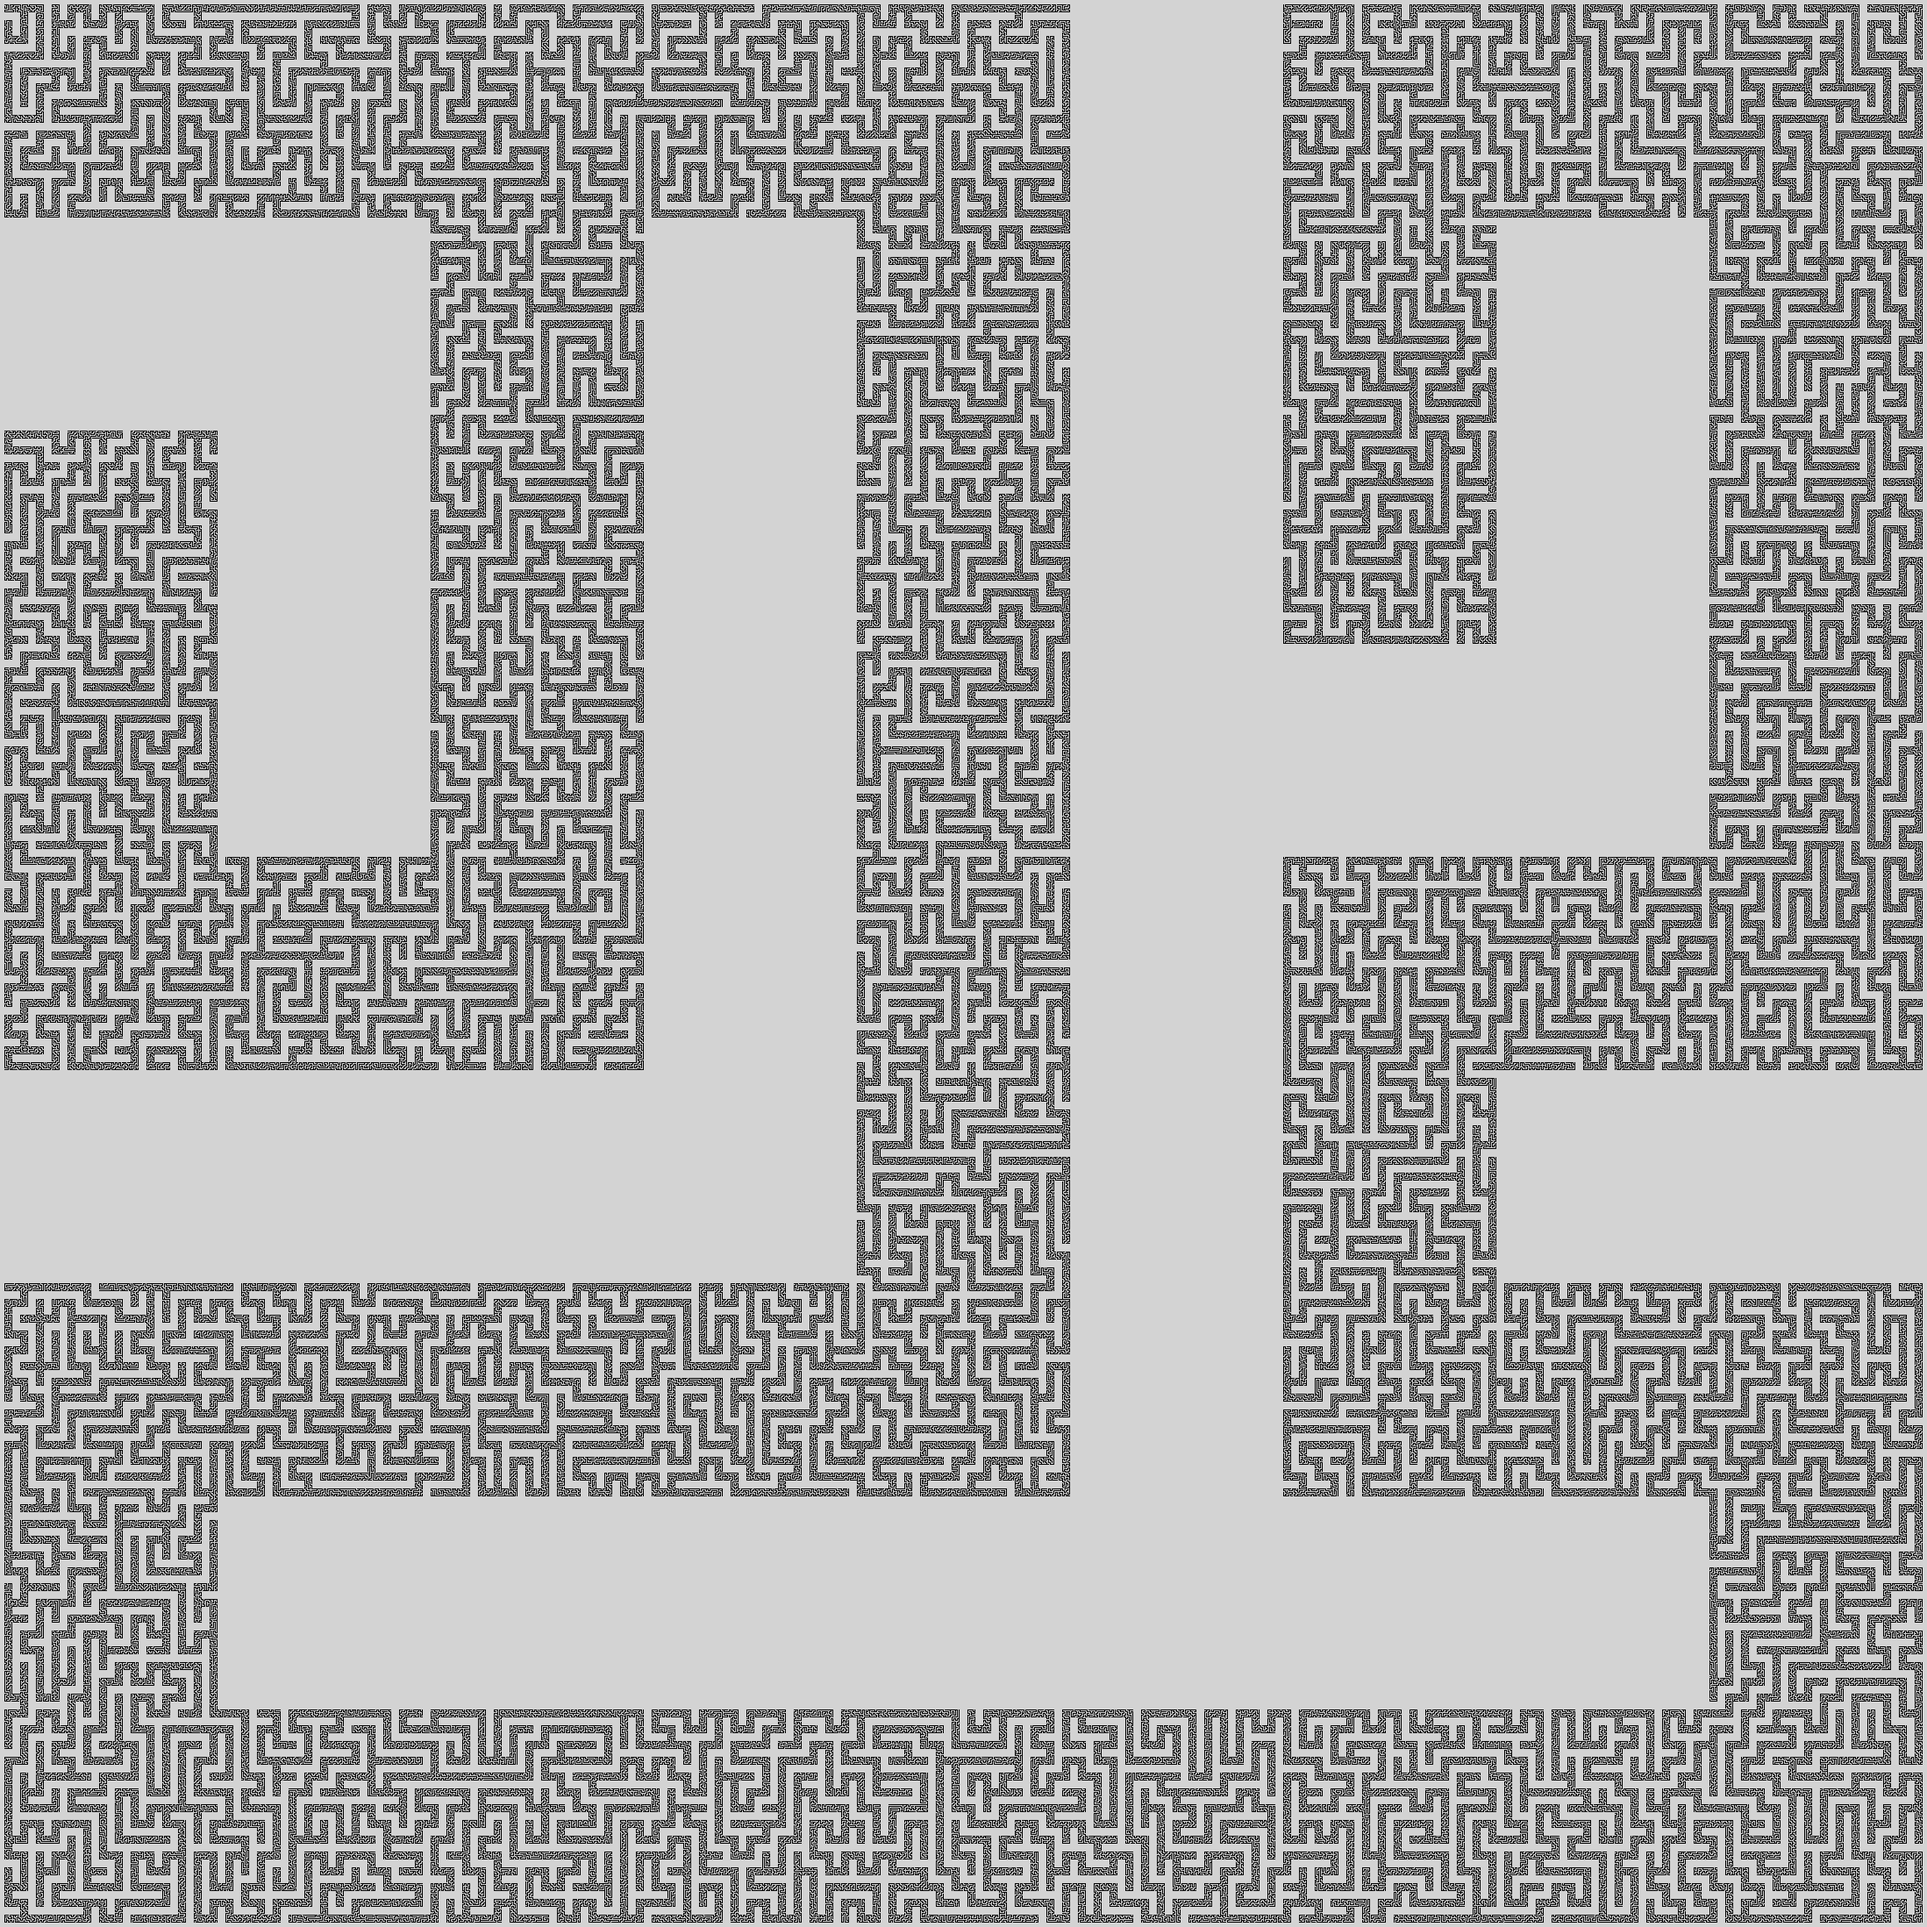
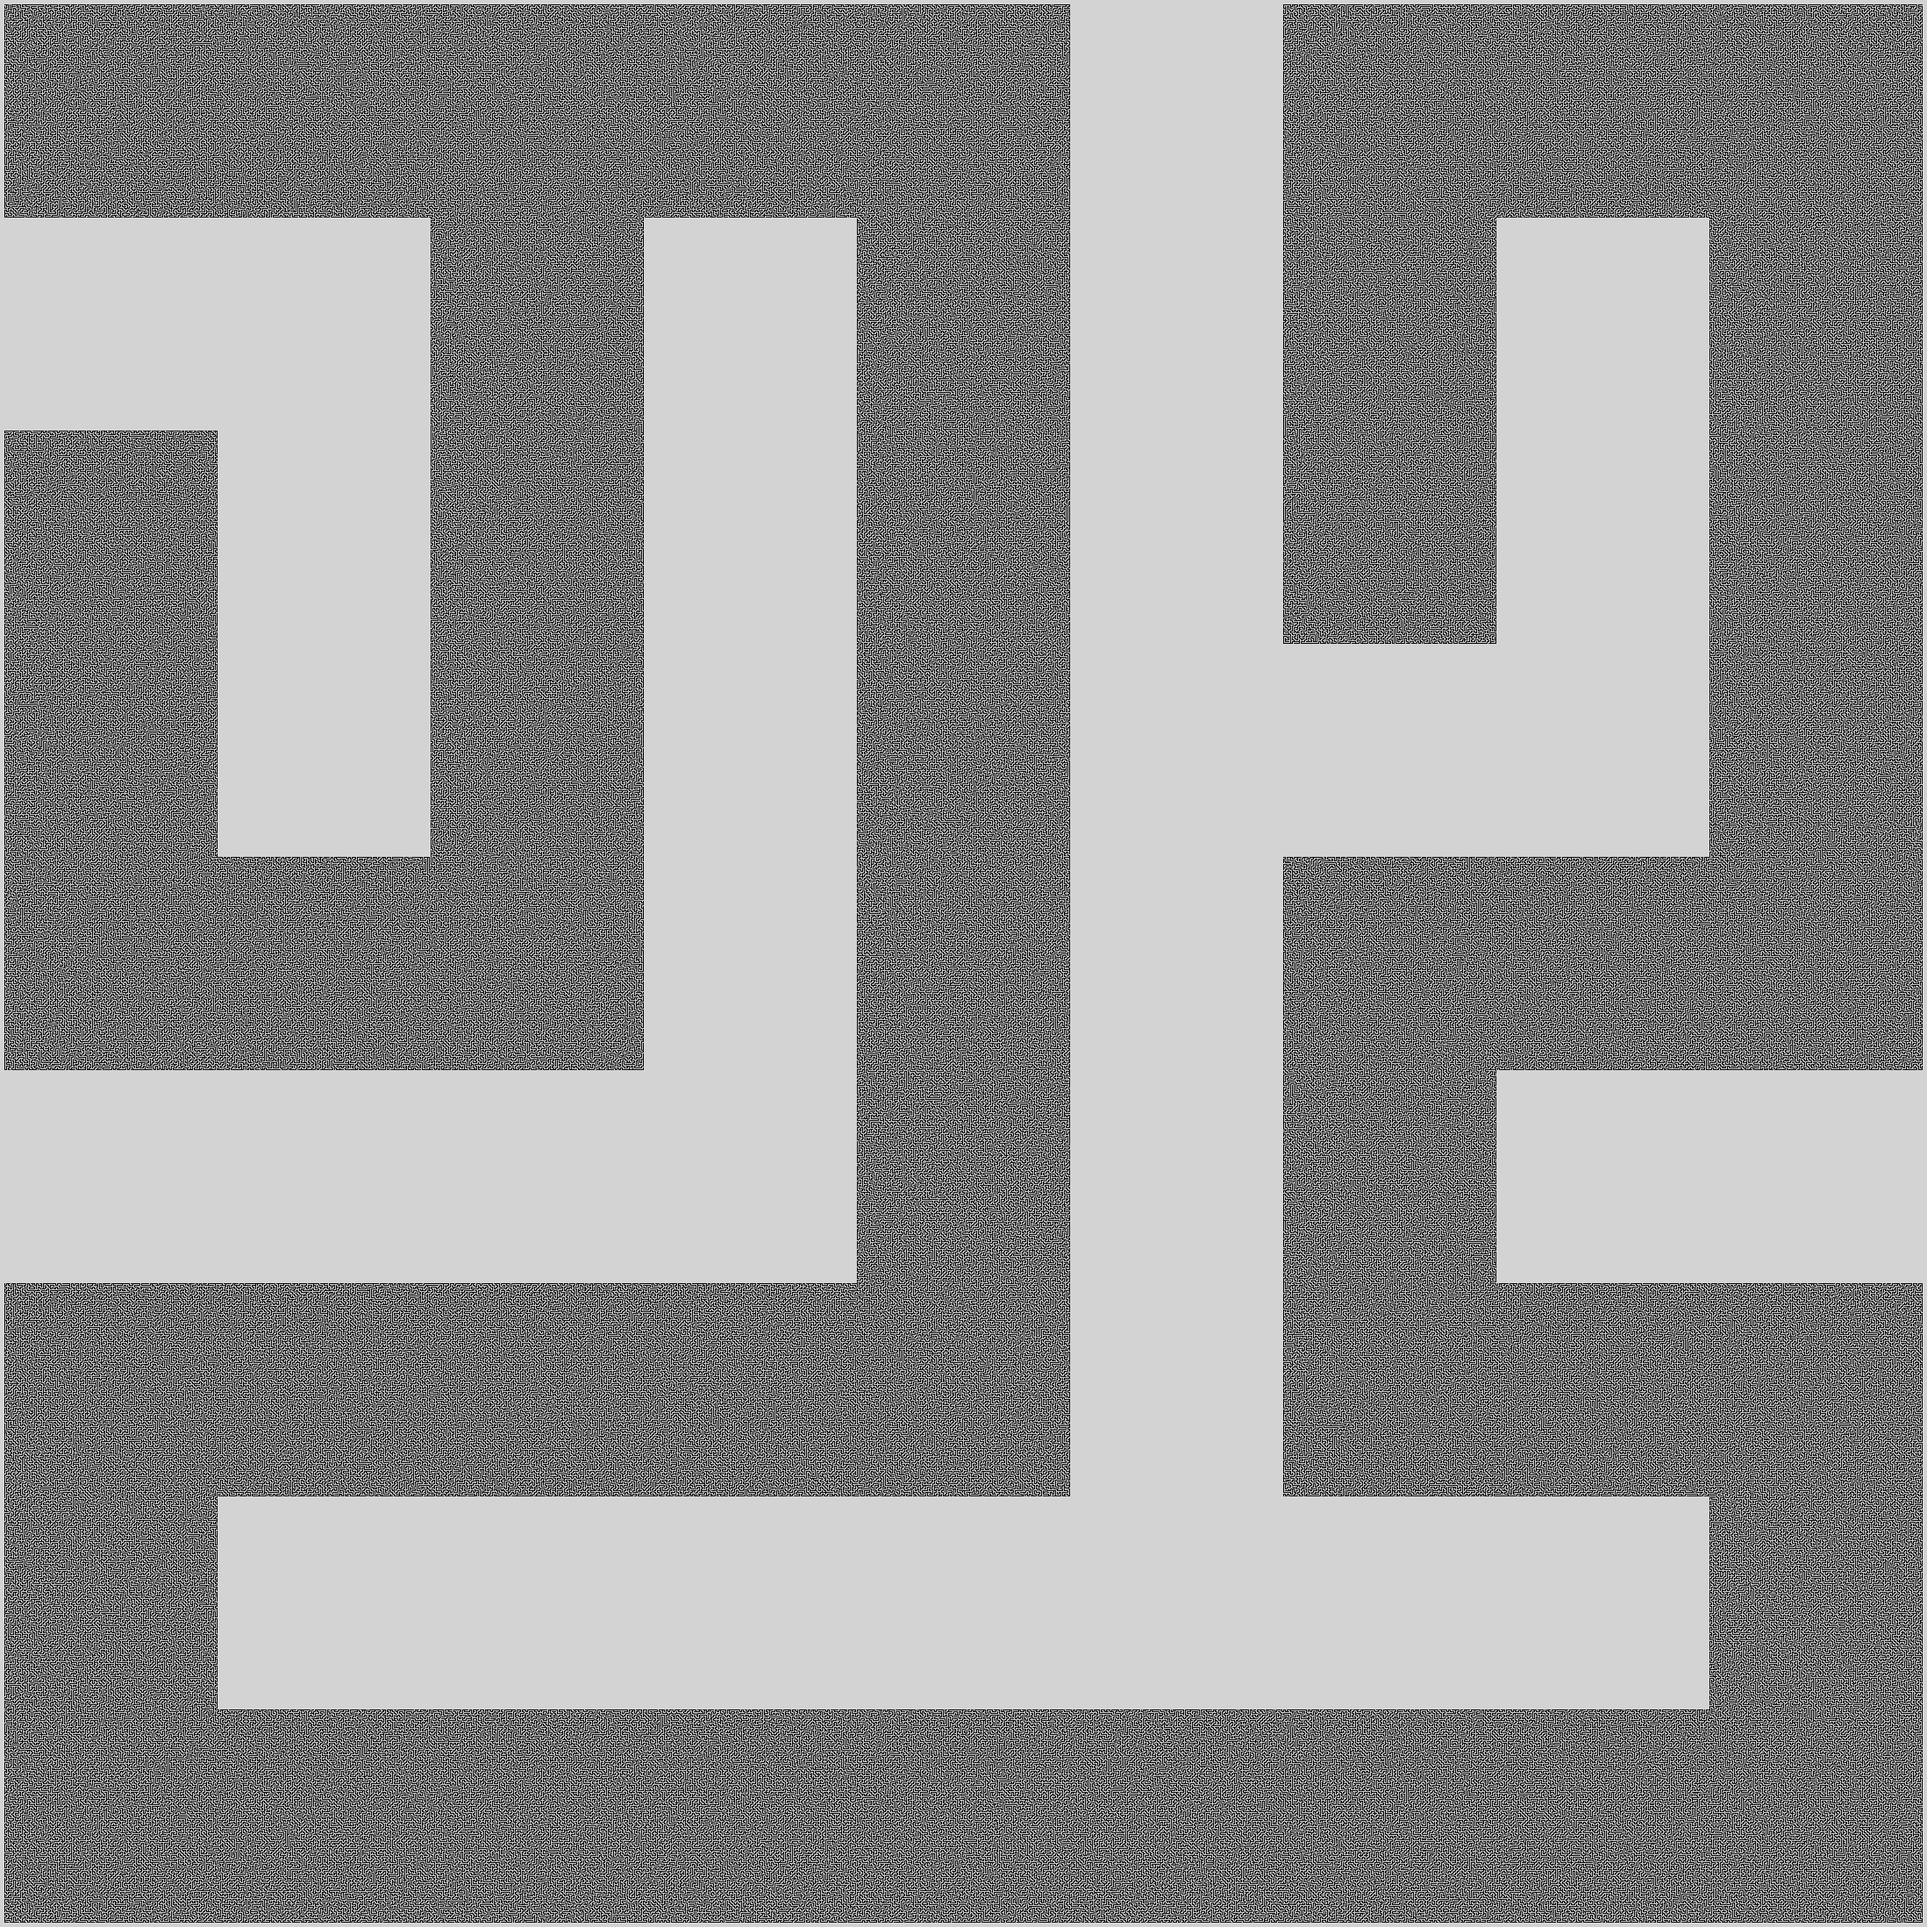
Add case

Changed region(s): [[0.0, 0.0, 1.0, 1.0]]

diff --git a/src/index.ts b/src/index.ts
@@ -19,7 +19,7 @@ tileGraph = generateTileMazeWithStepDistance(graph,tileGraph,nodeDistance,nodeDi
 //tileGraph = addInnerMaze(tileGraph, 243, 243, frameOffset);
 //tileGraph = addInnerMaze(tileGraph, 81, 81, frameOffset);
 //tileGraph = addInnerMaze(tileGraph, 27, 27, frameOffset);
-tileGraph = addInnerMaze(tileGraph, 9, 9, frameOffset);
+//tileGraph = addInnerMaze(tileGraph, 9, 9, frameOffset);
 //tileGraph = addInnerMaze(tileGraph, 3, 3, frameOffset);
 tileGraph = addInnerMaze(tileGraph, 1, 1, frameOffset);
 
